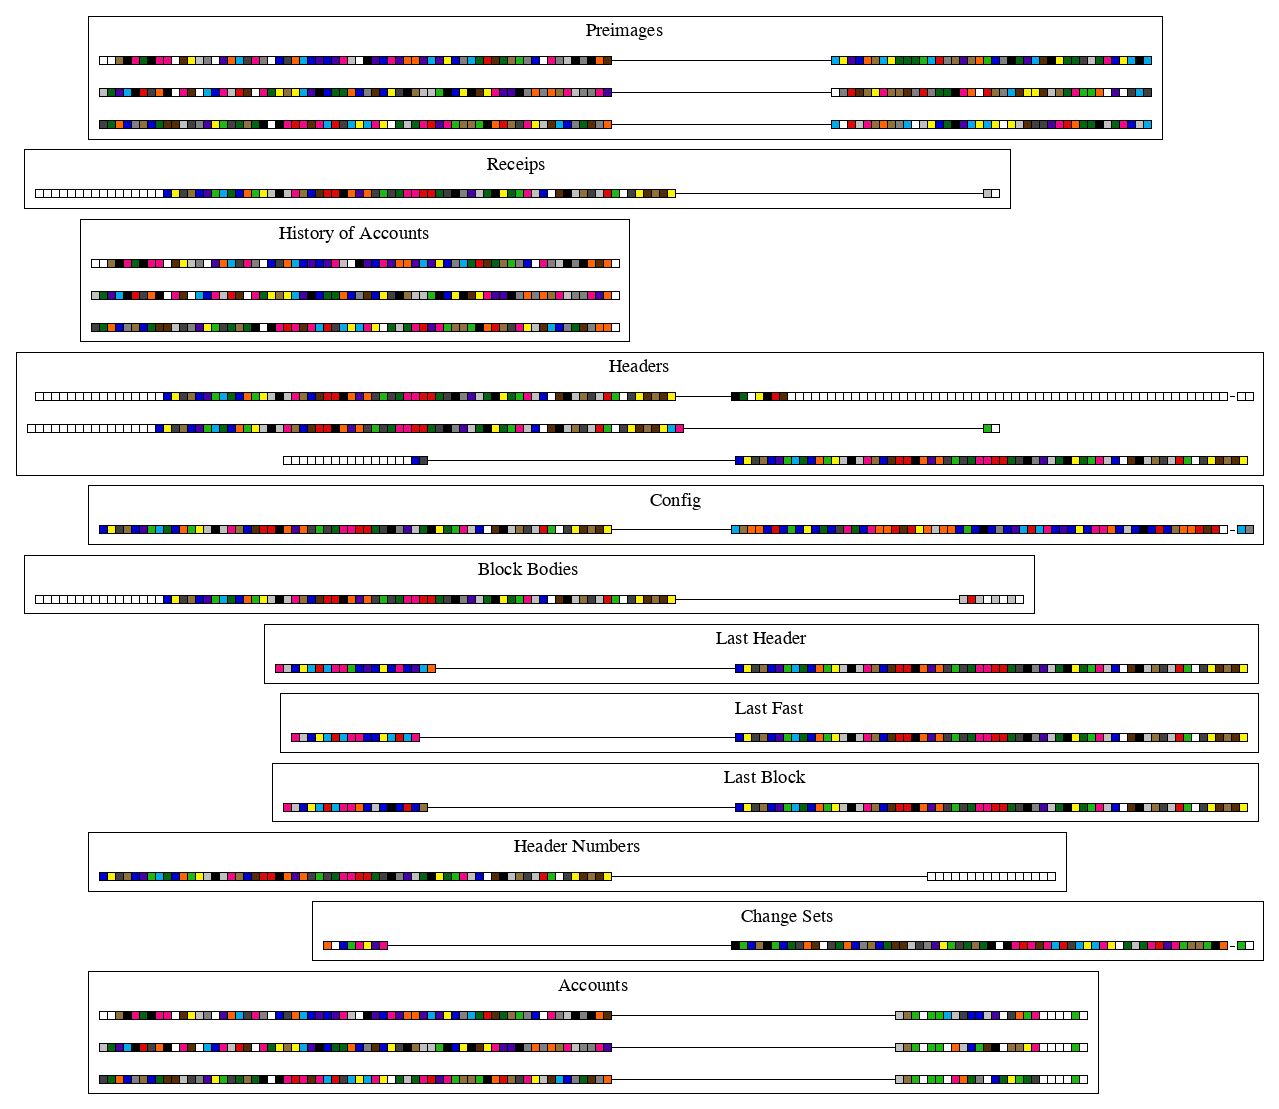
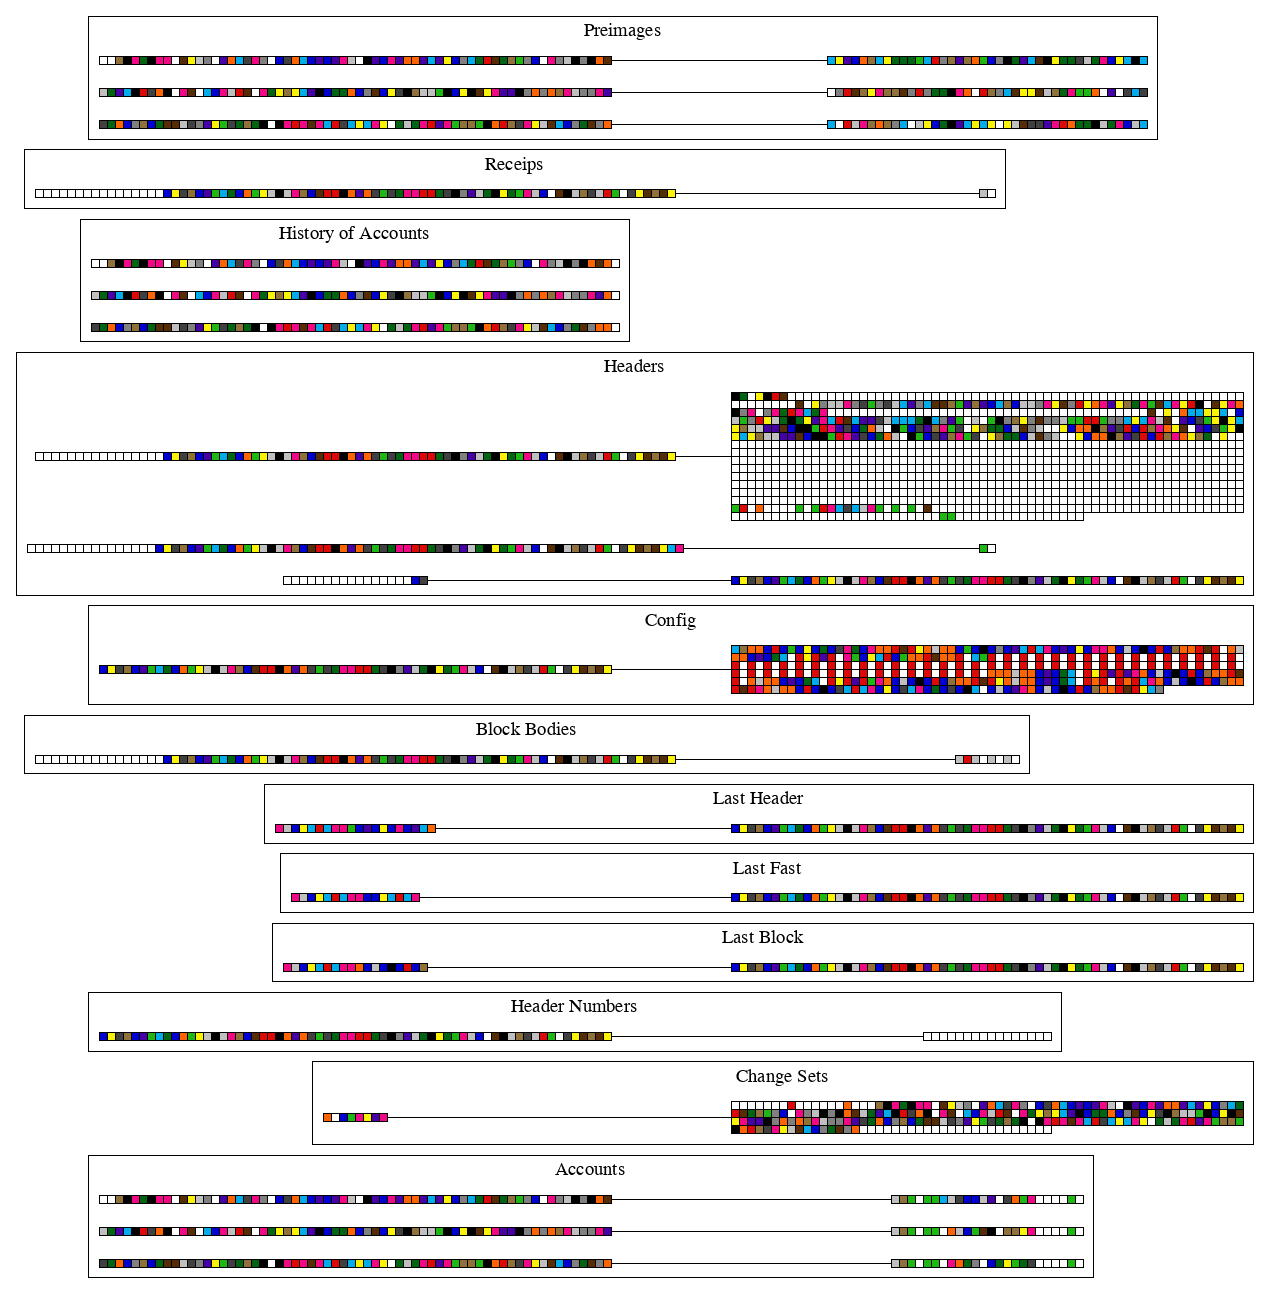
Continue comparison of genesis block with geth, expand long values (#223)

Changed region(s): [[0.0, 0.0, 1.0, 1.0]]

diff --git a/visual/hexary.go b/visual/hexary.go
@@ -120,3 +120,51 @@ func Horizontal(w io.Writer, hex []byte, highlighted int, name string, indexColo
 	>];
 	`)
 }
+
+func HexBox(w io.Writer, name string, code []byte, columns int, compressed bool, highlighted bool) {
+	fmt.Fprintf(w,
+		`
+	%s [label=<
+	<table border="0" color="#000000" cellborder="1" cellspacing="0">
+	`, name)
+	rows := (len(code) + columns - 1) / columns
+	row := 0
+	for rowStart := 0; rowStart < len(code); rowStart += columns {
+		if rows < 6 || !compressed || row < 2 || row > rows-3 {
+			fmt.Fprintf(w, "		<tr>")
+			col := 0
+			for ; rowStart+col < len(code) && col < columns; col++ {
+				if columns < 6 || !compressed || col < 2 || col > columns-3 {
+					h := code[rowStart+col]
+					if highlighted {
+						fmt.Fprintf(w,
+							`		<td bgcolor="%s"><font color="%s">%s</font></td>
+				`, HexIndexColors[h], HexFontColors[h], hexIndices[h])
+					} else {
+						fmt.Fprintf(w, `<td bgcolor="%s"></td>`, HexIndexColors[h])
+					}
+				}
+				if compressed && columns >= 6 && col == 2 && (row == 0 || row == rows-2) {
+					fmt.Fprintf(w, `<td rowspan="2" border="0"></td>`)
+				}
+			}
+			if col < columns {
+				fmt.Fprintf(w, `<td colspan="%d" border="0"></td>`, columns-col)
+			}
+			fmt.Fprintf(w, `</tr>
+		`)
+		}
+		if compressed && rows >= 6 && row == 2 {
+			fmt.Fprintf(w, "		<tr>")
+			fmt.Fprintf(w, `<td colspan="%d" border="0"></td>`, columns)
+			fmt.Fprintf(w, `</tr>
+		`)
+		}
+		row++
+	}
+	fmt.Fprintf(w,
+		`
+	</table>
+	>];
+	`)
+}

diff --git a/trie/visual.go b/trie/visual.go
@@ -66,49 +66,6 @@ func Visual(t *Trie, w io.Writer, opts *VisualOpts) {
 	}
 }
 
-func visualCode(w io.Writer, hex []byte, code []byte, compressed bool) {
-	columns := 32
-	fmt.Fprintf(w,
-		`
-	c_%x [label=<
-	<table border="0" color="#000000" cellborder="1" cellspacing="0">
-	`, hex)
-	rows := (len(code) + columns - 1) / columns
-	row := 0
-	for rowStart := 0; rowStart < len(code); rowStart += columns {
-		if rows < 6 || !compressed || row < 2 || row > rows-3 {
-			fmt.Fprintf(w, "		<tr>")
-			col := 0
-			for ; rowStart+col < len(code) && col < columns; col++ {
-				if columns < 6 || !compressed || col < 2 || col > columns-3 {
-					h := code[rowStart+col]
-					fmt.Fprintf(w, `<td bgcolor="%s"></td>`, visual.HexIndexColors[h])
-				}
-				if compressed && columns >= 6 && col == 2 && (row == 0 || row == rows-2) {
-					fmt.Fprintf(w, `<td rowspan="2" border="0"></td>`)
-				}
-			}
-			if col < columns {
-				fmt.Fprintf(w, `<td colspan="%d" border="0"></td>`, columns-col)
-			}
-			fmt.Fprintf(w, `</tr>
-		`)
-		}
-		if compressed && rows >= 6 && row == 2 {
-			fmt.Fprintf(w, "		<tr>")
-			fmt.Fprintf(w, `<td colspan="%d" border="0"></td>`, columns)
-			fmt.Fprintf(w, `</tr>
-		`)
-		}
-		row++
-	}
-	fmt.Fprintf(w,
-		`
-	</table>
-	>];
-	`)
-}
-
 func visualNode(nd node, hex []byte, w io.Writer, highlights [][]byte, opts *VisualOpts,
 	leaves map[string]struct{}, hashes map[string]struct{}) {
 	switch n := nd.(type) {
@@ -149,7 +106,7 @@ func visualNode(nd node, hex []byte, w io.Writer, highlights [][]byte, opts *Vis
 			if !a.IsEmptyCodeHash() {
 				codeHex := keybytesToHex(opts.CodeMap[a.CodeHash])
 				codeHex = codeHex[:len(codeHex)-1]
-				visualCode(w, accountHex, codeHex, opts.CodeCompressed)
+				visual.HexBox(w, fmt.Sprintf("c_%x", accountHex), codeHex, 32, opts.CodeCompressed, false)
 				fmt.Fprintf(w,
 					`e_%x -> c_%x;
 				`, accountHex, accountHex)

diff --git a/cmd/pics/state.go b/cmd/pics/state.go
@@ -203,8 +203,7 @@ func stateDatabaseComparison(first *bolt.DB, second *bolt.DB, number int) error 
 					visual.Horizontal(f1, key, len(key), fmt.Sprintf("k_%d", i), visual.HexIndexColors, visual.HexFontColors, 0)
 					if len(val) > 0 {
 						if len(val) > 64 {
-							compression := len(val) - 64
-							visual.Horizontal(f1, val, len(val), fmt.Sprintf("v_%d", i), visual.HexIndexColors, visual.HexFontColors, compression)
+							visual.HexBox(f1, fmt.Sprintf("v_%d", i), val, 64, false /*compresses*/, true /*highlighted*/)
 						} else {
 							visual.Horizontal(f1, val, len(val), fmt.Sprintf("v_%d", i), visual.HexIndexColors, visual.HexFontColors, 0)
 						}
@@ -216,8 +215,7 @@ func stateDatabaseComparison(first *bolt.DB, second *bolt.DB, number int) error 
 					visual.Horizontal(f, key, 0, fmt.Sprintf("k_%d", i), visual.HexIndexColors, visual.HexFontColors, 0)
 					if len(val) > 0 {
 						if len(val) > 64 {
-							compression := len(val) - 64
-							visual.Horizontal(f, val, 0, fmt.Sprintf("v_%d", i), visual.HexIndexColors, visual.HexFontColors, compression)
+							visual.HexBox(f, fmt.Sprintf("v_%d", i), val, 64, false /*compressed*/, false /*highlighted*/)
 						} else {
 							visual.Horizontal(f, val, 0, fmt.Sprintf("v_%d", i), visual.HexIndexColors, visual.HexFontColors, 0)
 						}

diff --git a/docs/programmers_guide/db_walkthrough.MD b/docs/programmers_guide/db_walkthrough.MD
@@ -8,7 +8,7 @@ ETH transfers, or interactions with smart contracts, or both. For each step, we 
 produced by the code available in turbo-geth, and the code which currently resides on a fork
 of go-ethereum, but there is an intention to feed it upstream, if there is interest.
 
-Genesis
+Genesis in Turbo-Geth
 ------------------------------
 For the genesis block, we generate 3 different private keys and construct Ethereum addresses from them.
 Then, we endow one of the accounts with 9 ETH, and two others with 0.2 and 0.3 ETH, respectively.
@@ -75,7 +75,6 @@ Next bucket is "Headers", it records information about block headers from variou
 The keys for the first two records start with 8-byte encoding of the block number (0), followed by
 the block hash (or header hash, which is the same thing). The second record also has a suffix `0x74`,
 which is ASCII code for `t`. The records of the first type store the actual headers in their values.
-In our example, we can see that the value is shortened (there is "----" at the end) for better visualisation.
 The records of the second type store total mining difficulty (TD) of  the chain ending in that specific header.
 In our case it is `0x80`, which is RLP encoding of 0.
 The records of the third type have their keys composed of 8-byte encoding of the block number (0 here), and
@@ -121,14 +120,24 @@ and "History of Storage" (this bucket will appear later), where keys are derived
 ![genesis_db_change_sets](changes_0_ChangeSet_1.dot.gd.png)
 
 In the cases of our genesis block, the keys is composed from the encoding of the block number (`0x20`), and the
-ASCII-code of `hAT` (meaning **h**istory of **A**counts **T**rie). The value is RLP-encoded structure that is
-a list of key-value pairs. Change Sets bucket records how the accounts changed at each block. But, instead of recording,
-at each change, the value that the accounts had AFTER the change, it records what value the accounts
-had BEFORE the change. In our case, the values inside the structure encoding are empty, meaning that these three accounts
-did not exist before block 0.
-
-**WARNING** The layout of this bucket will change very soon, RLP encoding will be replaced by a special encoding,
-optimising for binary search of keys. Keys will also be sorted in lexicographic order.
+ASCII-code of `hAT` (meaning **h**istory of **A**counts **T**rie).
+The "Change Set" bucket records changes that happen to accounts and contract storage slots at every block.
+It is important to node that the values recorded in the "Changes Set" bucket are not the values the accounts
+(or storage slots) had AFTER the change, it records what value the accounts (or storage slots)
+had BEFORE the change. That explains the empty values here - it records the fact that these
+three accounts in questions did not exist prior to the block 0.
+The encoding of the values in the records is tailored for fast access and binary search. It has 5 parts:
+1. Number of keys-value pairs, encoded as a 4-byte (32-bit) number. In this example, it is `0x00000003`, which means
+there are 3 key-value pairs
+2. Size of each key, also encoded as a 32-bit number. All keys are the same size, which makes it possible to
+access them without deserialisation. In this example, it is `0x00000020`, which 32, meaning that all keys are
+32 bytes long.
+3. Keys themselves. In our examples, these are the coloured boxes before the streak of white 0s. Keys are sorted
+lexicographically. This, together with the keys being the same size, allows binary search without desearialision,
+as well as linear-time merge of multiple changesets.
+4. Value offsets. These offsets mark the beginning of the next, 5th part as offset 0. First value has offset 0.
+In our example, all values are empty strings, therefore we see 3 zero offsets (24 white boxes with zeros in them).
+5. Values themselves. In our example, they are empty, so this 5th part is not present.
 
 The next bucket is "Accounts":
 
@@ -158,7 +167,48 @@ incarnation 0, and all contract accounts will start their existence with incarna
 Contract accounts may also contract code hash and storage root, and these two pieces of information would make the record
 in the "Accounts" bucket contain 5 instead of 3 fields.
 
+Genesis in go-ethereum
+------------------------------
 
+Now we will create the same Genesis state and block in go-ethereum (in archive mode to make sure we compare like for like).
+Here is how the database looks like. Since go-ethereum uses LevelDB, and LevelDB does not have a concept of "Buckets" (or
+"Tables"), go-ethereum emulates them by adding table-specific prefixes to all the keys, with the exception of the keys that
+describe the state trie (bucket "Hashes" in our example). In the illustration, these prefixes are mostly removed for better
+comparison with turbo-geth. They were not removed only for the buckets "LastBlock", "LastHeader" and "LastFast", because
+othewise they key would be empty.
 
+![geth_genesis_db](geth_changes_0.dot.gd.png)
 
+The buckets "Preimages", "Receipts", "Headers", "Config", "Last Header", "Last Fast", "Last Block", all look identical
+to those in the turbo-geth database. We will walk through the ones that are different.
 
+In the bucket "Block Bodies", the value is slightly different:
+
+![geth_genesis_block_bodies](geth_changes_0_b_5.dot.gd.png)
+
+The difference is that the block body has 2 elements instead of 3 in turbo-geth. The missing element is the list
+of the sender addresses that go-ethereum does not store, but recomputes after loading or caches in memory.
+
+The buckets "Accounts", "History Of Accounts", and "Change Sets" are missing, because go-ethereum uses a very
+different mechanism for storing the state and its history:
+
+![geth_genesis_hashes](geth_changes_0_hashes_0.dot.gd.png)
+
+In the illustration showing the state trie, one can find 4 parts of the diagram that consist of the coloured boxes
+(that excludes the leaves that contain account balances and nonces). These parts are usually called "trie nodes",
+and in the diagram above we see 2 types of trie nodes:
+1. Branch node. This is the horizontal line of 3 coloured boxes on the top. It branches the traversal of the state
+trie from top to bottom 3-ways.
+2. Leaf node. These are 3 vertical lines of 63 coloured boxes.
+
+Each type of trie nodes can be serialised (using RLP encoding), to convert it to a string of bytes. What we see in
+the values of the records in the "Hashes" bucket just above are the RLP-encodings of these 4 trie nodes.
+What we see in the keys of these records are the results of `Keccak256` function applied to the values. In a way,
+this is similar to the "Preimages" bucket, with the different type of values.
+
+If you look closely, you may notice that the keys of the last 3 records are actually contained inside the value
+of the first record. This is because the first value correponds to that 3-way branch node, and the hashes of the
+leaf nodes are used like "pointers" to thoese nodes. Continuing the "pointer" analogy, you can say that
+"dereferencing" these pointers mean fetching the corresponding records from this "Hashes" bucket. Using such
+"derederencing" process, one can traverse the state trie from the top to any leaf at the bottom. Each step in
+such traversal requires finding the corresponding record in the "Hashes" bucket.